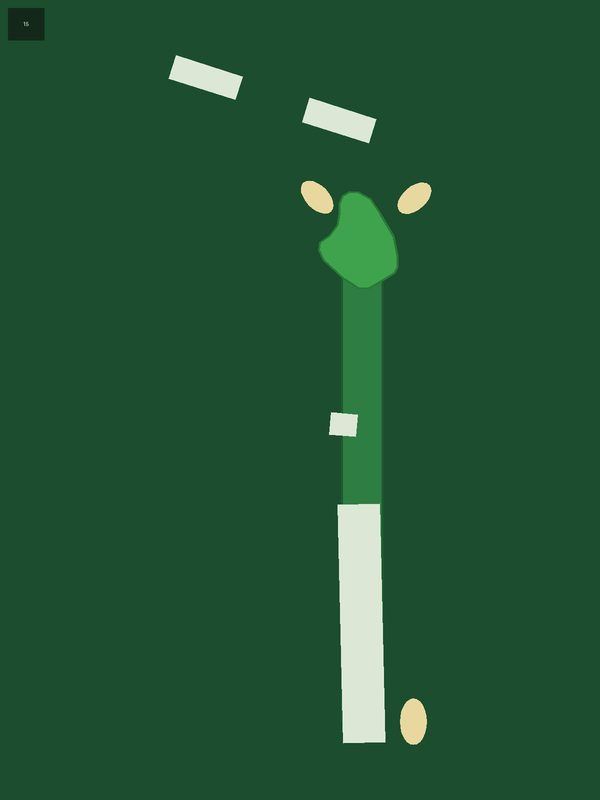
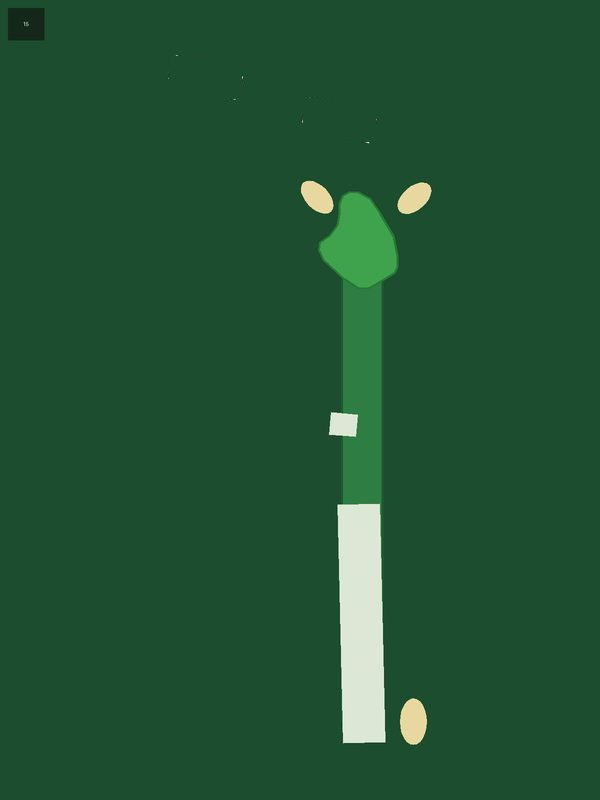
East Lake: restore post-renovation water (H1/H8/H9), remove stale H11 water, 19 to-pin markers + distance scales
Version finding: screenshots are the NEW post-2024 Andrew Green course
(game yardages track the new Tour card: H8 387~390 new vs 455 old,
H9 270~260 new vs 235 old, par 70 w/ H14 as par 4 = 2025+ config).
Our OSM maps were stale pre-renovation; water fixed to match screenshots.

Artwork: H1 add right-hand lake; H8 add large left-side lake; H9 rebuild
both water bodies + remove spurious white shapes; H11 remove spurious
water short-left of green. Masks regenerated in sync (palette-exact).
Cosmetic: H2/H15/H16 generator artifact cleanup.
H16 tee moved to true back tee (dot was ~14y ahead); H18 pin corrected
to green center (was misplaced up-right).
H9 header 270y vs pill geometry ~214y: used pill-calibrated scale;
header appears to be tips yardage, game plays it shorter.

Changed region(s): [[0.27, 0.0625, 0.42, 0.125], [0.51, 0.125, 0.63, 0.1875]]

diff --git a/app/lib/widgets/hole_map_manifest.dart b/app/lib/widgets/hole_map_manifest.dart
@@ -93,23 +93,23 @@ const holeMapManifest = <String, Map<int, HoleMapAsset>>{
   },
   'East Lake Golf Club': {
     1: HoleMapAsset(par: 4, map: 'assets/hole_maps/east-lake-golf-club/1.jpg', mask: 'assets/hole_maps/east-lake-golf-club/1_mask.png', tee: Offset(0.512, 0.871), pin: Offset(0.510, 0.146), source: 'osm'),
-    2: HoleMapAsset(par: 3, map: 'assets/hole_maps/east-lake-golf-club/2.jpg', mask: 'assets/hole_maps/east-lake-golf-club/2_mask.png', tee: Offset(0.366, 0.903), pin: Offset(0.364, 0.230), source: 'osm'),
-    3: HoleMapAsset(par: 4, map: 'assets/hole_maps/east-lake-golf-club/3.jpg', mask: 'assets/hole_maps/east-lake-golf-club/3_mask.png', tee: Offset(0.565, 0.925), pin: Offset(0.560, 0.157), source: 'osm'),
-    4: HoleMapAsset(par: 4, map: 'assets/hole_maps/east-lake-golf-club/4.jpg', mask: 'assets/hole_maps/east-lake-golf-club/4_mask.png', tee: Offset(0.545, 0.762), pin: Offset(0.547, 0.108), source: 'osm'),
-    5: HoleMapAsset(par: 4, map: 'assets/hole_maps/east-lake-golf-club/5.jpg', mask: 'assets/hole_maps/east-lake-golf-club/5_mask.png', tee: Offset(0.464, 0.921), pin: Offset(0.453, 0.151), source: 'osm'),
-    6: HoleMapAsset(par: 5, map: 'assets/hole_maps/east-lake-golf-club/6.jpg', mask: 'assets/hole_maps/east-lake-golf-club/6_mask.png', tee: Offset(0.532, 0.900), pin: Offset(0.529, 0.124), source: 'osm'),
-    7: HoleMapAsset(par: 4, map: 'assets/hole_maps/east-lake-golf-club/7.jpg', mask: 'assets/hole_maps/east-lake-golf-club/7_mask.png', tee: Offset(0.536, 0.927), pin: Offset(0.537, 0.160), source: 'osm'),
-    8: HoleMapAsset(par: 4, map: 'assets/hole_maps/east-lake-golf-club/8.jpg', mask: 'assets/hole_maps/east-lake-golf-club/8_mask.png', tee: Offset(0.434, 0.855), pin: Offset(0.434, 0.195), source: 'osm'),
-    9: HoleMapAsset(par: 3, map: 'assets/hole_maps/east-lake-golf-club/9.jpg', mask: 'assets/hole_maps/east-lake-golf-club/9_mask.png', tee: Offset(0.393, 0.783), pin: Offset(0.384, 0.128), source: 'osm'),
+    2: HoleMapAsset(par: 3, map: 'assets/hole_maps/east-lake-golf-club/2.jpg', mask: 'assets/hole_maps/east-lake-golf-club/2_mask.png', tee: Offset(0.366, 0.903), pin: Offset(0.364, 0.230), source: 'osm', yardsPerPixel: 0.37147, yardages: const [YardageMarker(offset: Offset(0.3205, 0.1709), yards: -20), YardageMarker(offset: Offset(0.3234, 0.2093), yards: -11), YardageMarker(offset: Offset(0.4528, 0.2490), yards: 21)]),
+    3: HoleMapAsset(par: 4, map: 'assets/hole_maps/east-lake-golf-club/3.jpg', mask: 'assets/hole_maps/east-lake-golf-club/3_mask.png', tee: Offset(0.565, 0.925), pin: Offset(0.560, 0.157), source: 'osm', yardsPerPixel: 0.69010, yardages: const [YardageMarker(offset: Offset(0.5957, 0.3625), yards: 114), YardageMarker(offset: Offset(0.6047, 0.4319), yards: 153)]),
+    4: HoleMapAsset(par: 4, map: 'assets/hole_maps/east-lake-golf-club/4.jpg', mask: 'assets/hole_maps/east-lake-golf-club/4_mask.png', tee: Offset(0.545, 0.762), pin: Offset(0.547, 0.108), source: 'osm', yardsPerPixel: 0.89067, yardages: const [YardageMarker(offset: Offset(0.5171, 0.3387), yards: 165)]),
+    5: HoleMapAsset(par: 4, map: 'assets/hole_maps/east-lake-golf-club/5.jpg', mask: 'assets/hole_maps/east-lake-golf-club/5_mask.png', tee: Offset(0.464, 0.921), pin: Offset(0.453, 0.151), source: 'osm', yardsPerPixel: 0.72885),
+    6: HoleMapAsset(par: 5, map: 'assets/hole_maps/east-lake-golf-club/6.jpg', mask: 'assets/hole_maps/east-lake-golf-club/6_mask.png', tee: Offset(0.532, 0.900), pin: Offset(0.529, 0.124), source: 'osm', yardsPerPixel: 0.85373, yardages: const [YardageMarker(offset: Offset(0.3910, 0.5050), yards: 276)]),
+    7: HoleMapAsset(par: 4, map: 'assets/hole_maps/east-lake-golf-club/7.jpg', mask: 'assets/hole_maps/east-lake-golf-club/7_mask.png', tee: Offset(0.536, 0.927), pin: Offset(0.537, 0.160), source: 'osm', yardsPerPixel: 0.80834, yardages: const [YardageMarker(offset: Offset(0.5792, 0.3636), yards: 133), YardageMarker(offset: Offset(0.5285, 0.4439), yards: 184)]),
+    8: HoleMapAsset(par: 4, map: 'assets/hole_maps/east-lake-golf-club/8.jpg', mask: 'assets/hole_maps/east-lake-golf-club/8_mask.png', tee: Offset(0.434, 0.855), pin: Offset(0.434, 0.195), source: 'osm', yardsPerPixel: 0.73295, yardages: const [YardageMarker(offset: Offset(0.4711, 0.1997), yards: 17), YardageMarker(offset: Offset(0.4796, 0.2797), yards: 54), YardageMarker(offset: Offset(0.4419, 0.3084), yards: 67), YardageMarker(offset: Offset(0.3847, 0.4580), yards: 156)]),
+    9: HoleMapAsset(par: 3, map: 'assets/hole_maps/east-lake-golf-club/9.jpg', mask: 'assets/hole_maps/east-lake-golf-club/9_mask.png', tee: Offset(0.393, 0.783), pin: Offset(0.384, 0.128), source: 'osm', yardsPerPixel: 0.40895, yardages: const [YardageMarker(offset: Offset(0.4657, 0.0979), yards: -22), YardageMarker(offset: Offset(0.3794, 0.1902), yards: 20)]),
     10: HoleMapAsset(par: 4, map: 'assets/hole_maps/east-lake-golf-club/10.jpg', mask: 'assets/hole_maps/east-lake-golf-club/10_mask.png', tee: Offset(0.504, 0.922), pin: Offset(0.504, 0.218), source: 'osm'),
-    11: HoleMapAsset(par: 3, map: 'assets/hole_maps/east-lake-golf-club/11.jpg', mask: 'assets/hole_maps/east-lake-golf-club/11_mask.png', tee: Offset(0.486, 0.706), pin: Offset(0.484, 0.147), source: 'osm'),
-    12: HoleMapAsset(par: 4, map: 'assets/hole_maps/east-lake-golf-club/12.jpg', mask: 'assets/hole_maps/east-lake-golf-club/12_mask.png', tee: Offset(0.576, 0.918), pin: Offset(0.584, 0.166), source: 'osm'),
+    11: HoleMapAsset(par: 3, map: 'assets/hole_maps/east-lake-golf-club/11.jpg', mask: 'assets/hole_maps/east-lake-golf-club/11_mask.png', tee: Offset(0.486, 0.706), pin: Offset(0.484, 0.147), source: 'osm', yardsPerPixel: 0.49866, yardages: const [YardageMarker(offset: Offset(0.5551, 0.1803), yards: 30)]),
+    12: HoleMapAsset(par: 4, map: 'assets/hole_maps/east-lake-golf-club/12.jpg', mask: 'assets/hole_maps/east-lake-golf-club/12_mask.png', tee: Offset(0.576, 0.918), pin: Offset(0.584, 0.166), source: 'osm', yardsPerPixel: 0.65324, yardages: const [YardageMarker(offset: Offset(0.5390, 0.3473), yards: 105)]),
     13: HoleMapAsset(par: 4, map: 'assets/hole_maps/east-lake-golf-club/13.jpg', mask: 'assets/hole_maps/east-lake-golf-club/13_mask.png', tee: Offset(0.572, 0.919), pin: Offset(0.570, 0.183), source: 'osm'),
     14: HoleMapAsset(par: 4, map: 'assets/hole_maps/east-lake-golf-club/14.jpg', mask: 'assets/hole_maps/east-lake-golf-club/14_mask.png', tee: Offset(0.551, 0.922), pin: Offset(0.551, 0.176), source: 'osm'),
     15: HoleMapAsset(par: 3, map: 'assets/hole_maps/east-lake-golf-club/15.jpg', mask: 'assets/hole_maps/east-lake-golf-club/15_mask.png', tee: Offset(0.604, 0.902), pin: Offset(0.601, 0.305), source: 'mixed'),
-    16: HoleMapAsset(par: 4, map: 'assets/hole_maps/east-lake-golf-club/16.jpg', mask: 'assets/hole_maps/east-lake-golf-club/16_mask.png', tee: Offset(0.435, 0.922), pin: Offset(0.440, 0.173), source: 'osm'),
-    17: HoleMapAsset(par: 4, map: 'assets/hole_maps/east-lake-golf-club/17.jpg', mask: 'assets/hole_maps/east-lake-golf-club/17_mask.png', tee: Offset(0.433, 0.764), pin: Offset(0.432, 0.175), source: 'osm'),
-    18: HoleMapAsset(par: 5, map: 'assets/hole_maps/east-lake-golf-club/18.jpg', mask: 'assets/hole_maps/east-lake-golf-club/18_mask.png', tee: Offset(0.454, 0.860), pin: Offset(0.572, 0.163), source: 'osm'),
+    16: HoleMapAsset(par: 4, map: 'assets/hole_maps/east-lake-golf-club/16.jpg', mask: 'assets/hole_maps/east-lake-golf-club/16_mask.png', tee: Offset(0.435, 0.946), pin: Offset(0.440, 0.173), source: 'osm', yardsPerPixel: 0.74061, yardages: const [YardageMarker(offset: Offset(0.4386, 0.3958), yards: 132), YardageMarker(offset: Offset(0.4380, 0.4768), yards: 180)]),
+    17: HoleMapAsset(par: 4, map: 'assets/hole_maps/east-lake-golf-club/17.jpg', mask: 'assets/hole_maps/east-lake-golf-club/17_mask.png', tee: Offset(0.433, 0.764), pin: Offset(0.432, 0.175), source: 'osm', yardsPerPixel: 0.94227),
+    18: HoleMapAsset(par: 5, map: 'assets/hole_maps/east-lake-golf-club/18.jpg', mask: 'assets/hole_maps/east-lake-golf-club/18_mask.png', tee: Offset(0.454, 0.860), pin: Offset(0.462, 0.206), source: 'osm'),
   },
   'Harbour Town Golf Links': {
     1: HoleMapAsset(par: 4, map: 'assets/hole_maps/harbour-town-golf-links/1.jpg', mask: 'assets/hole_maps/harbour-town-golf-links/1_mask.png', tee: Offset(0.553, 0.771), pin: Offset(0.447, 0.123), source: 'osm'),
